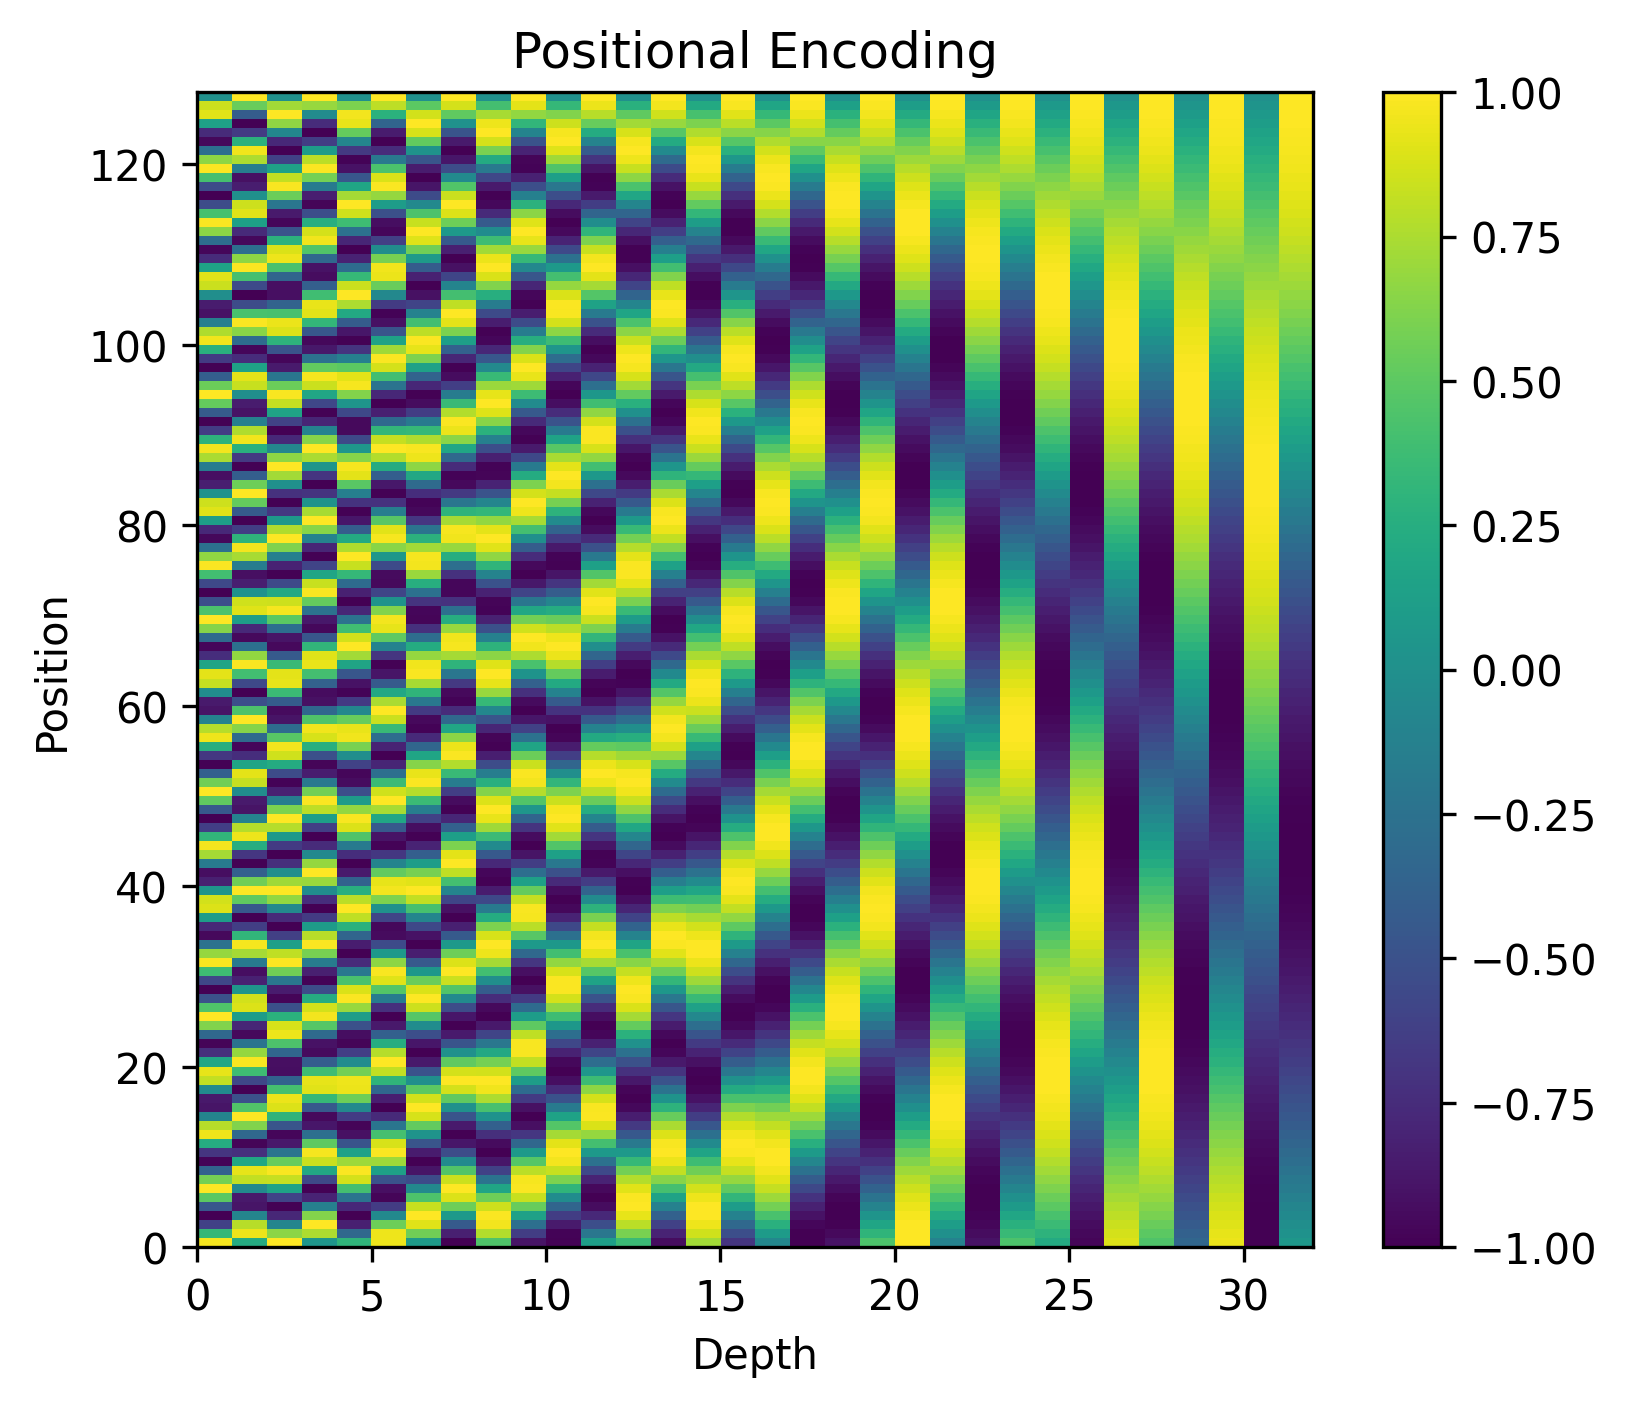
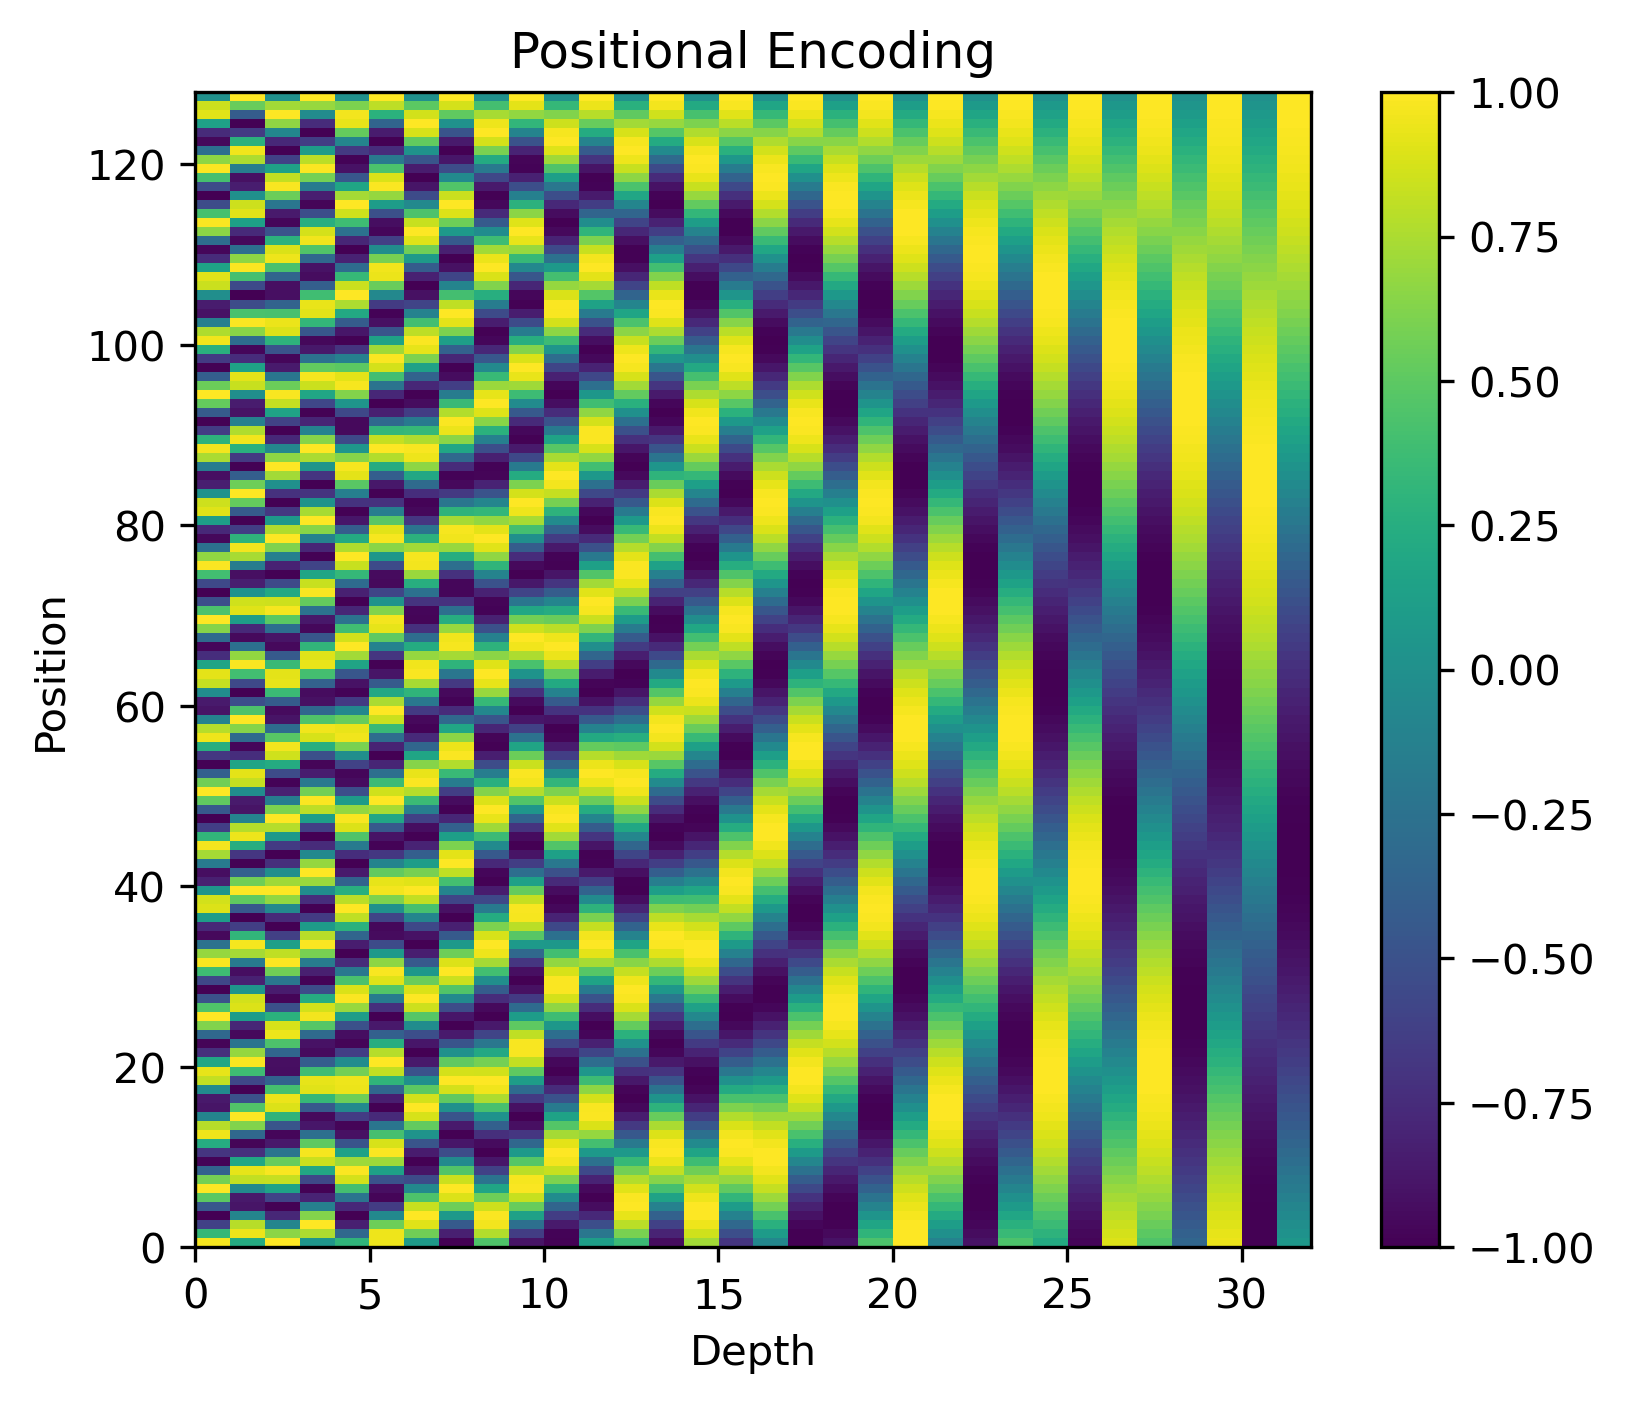
Updating scheduler_env shapes

diff --git a/dynpartition/partitioner/scheduler_env.py b/dynpartition/partitioner/scheduler_env.py
@@ -31,28 +31,29 @@ class SchedulerEnv(gym.Env):
         device = torch.device("cuda" if (
             True and torch.cuda.is_available()) else "cpu")
         _, train_dataset, dev_dataset, test_dataset = load_tree_lstm(device)
-        encoded_trees = create_tree_embedding_dataset(
-            test_dataset.trees, padding=MAX_NODES, name="test_sst", plot=True)
 
         if is_train:
             self.dataset = train_dataset
             self.dataset_len = len(train_dataset)
+            self.encoded_trees = create_tree_embedding_dataset(
+                train_dataset.trees, padding=MAX_NODES, name="train_sst", plot=True)
         else:
             self.dataset = test_dataset
             self.dataset_len = len(test_dataset)
+            self.encoded_trees = create_tree_embedding_dataset(
+                test_dataset.trees, padding=MAX_NODES, name="test_sst", plot=True)
 
-        ipdb.set_trace()
-        # TODO: state will be the input
-        self.observation_shape = encoded_trees[0].numpy().shape
-        self.observation_space = spaces.Dict(
-            {
-                "input_tree": spaces.Box(low=-np.ones(self.observation_shape),
-                                         high=np.ones(self.observation_shape), dtype=np.float16)
-            }
-        )
+        self.obs_id = np.random.randint(low=0, high=self.dataset_len)
+        self.observation_shape = self.encoded_trees[0].numpy().shape
+        self.observation_space = spaces.Box(
+            low=-np.ones(self.observation_shape), high=np.ones(self.observation_shape))
+
+        self.max_nodes = self.observation_shape[0]
+        self.num_devices = torch.cuda.device_count() + 1
 
         # Action space: Which GPU to assign the node to
-        self.action_space = spaces.Discrete(torch.cuda.device_count())
+        self.action_space = spaces.MultiDiscrete(
+            [self.num_devices] * self.max_nodes)
 
         assert render_mode is None
         self.render_mode = render_mode
@@ -60,8 +61,7 @@ class SchedulerEnv(gym.Env):
         self.clock = None
 
     def _get_obs(self):
-        # Might want to make this adaptive
-        return {"batch_size": batch_size}
+        return self.encoded_trees[self.obs_id].reshape(-1,)
 
     def _get_info(self):
         return None
@@ -75,6 +75,7 @@ class SchedulerEnv(gym.Env):
         self.allocations = {}  # Determined allocations
         self.current_batch = 0
         self.prev_action = None
+        self.obs_id = np.random.randint(low=0, high=self.dataset_len)
 
         observation = self._get_obs()
 

diff --git a/dynpartition/partitioner/dqn.py b/dynpartition/partitioner/dqn.py
@@ -53,10 +53,12 @@ class QNetwork():
         # Define your network architecture here. It is also a good idea to define any training operations
         # and optimizers here, initialize your variables, or alternately compile your model here.
         # device = torch.device('cuda:0' if torch.cuda.is_available() else 'cpu')
-        nA = env.action_space.n
-        nS = env.observation_space.shape[0]
-        self.model = FullyConnectedModel(nS, nA)
-        self.target = FullyConnectedModel(nS, nA)
+        nA = env.action_space[0].n
+        nNodes = len(env.action_space)
+        nS = env.observation_space.shape[0] * env.observation_space.shape[1]
+        nA_total = nNodes * nA
+        self.model = FullyConnectedModel(nS, nA_total)
+        self.target = FullyConnectedModel(nS, nA_total)
         self.target.load_state_dict(self.model.state_dict())
         self.optimizer = torch.optim.Adam(self.model.parameters(), lr=lr)
         # self.loss = torch.nn.MSELoss()
@@ -107,9 +109,13 @@ class DQN_Agent():
     def __init__(self, env, render=False):
         # Create an instance of the network itself, as well as the memory.
         lr = 5e-4
-        self.env = FlattenObservation(env)
-        self.nA = self.env.action_space.n
-        self.nS = self.env.observation_space.shape[0]
+        # self.env = FlattenObservation(env)
+        self.env = env
+        self.nNodes = len(env.action_space)
+        self.nA = self.env.action_space[0].n
+        self.nA_shape = (self.nNodes, self.nA)
+        self.nS = self.env.observation_space.shape[0] * \
+            self.env.observation_space.shape[1]
         self.epsilon = 0.5
         self.q_network = QNetwork(self.env, lr)
         self.replay = Replay_Memory()
